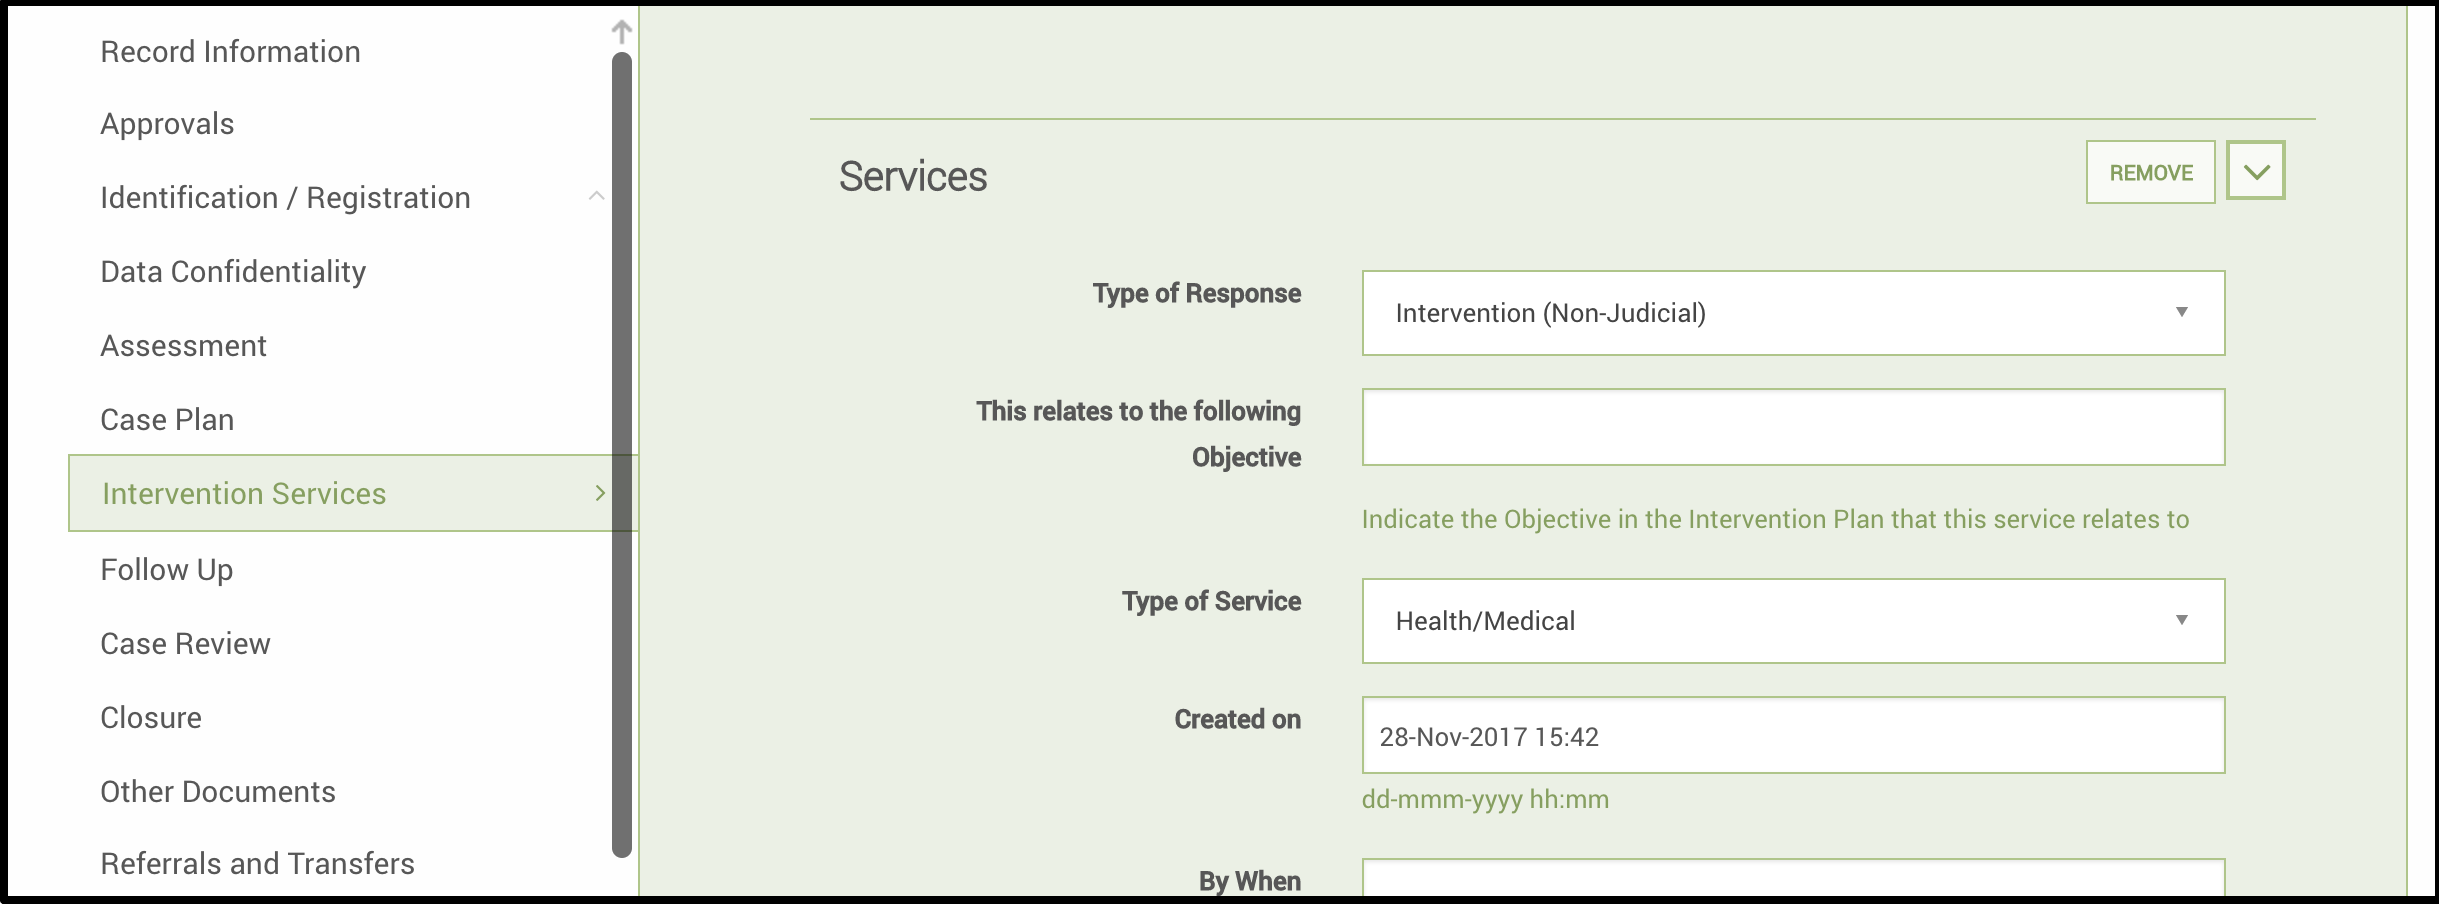
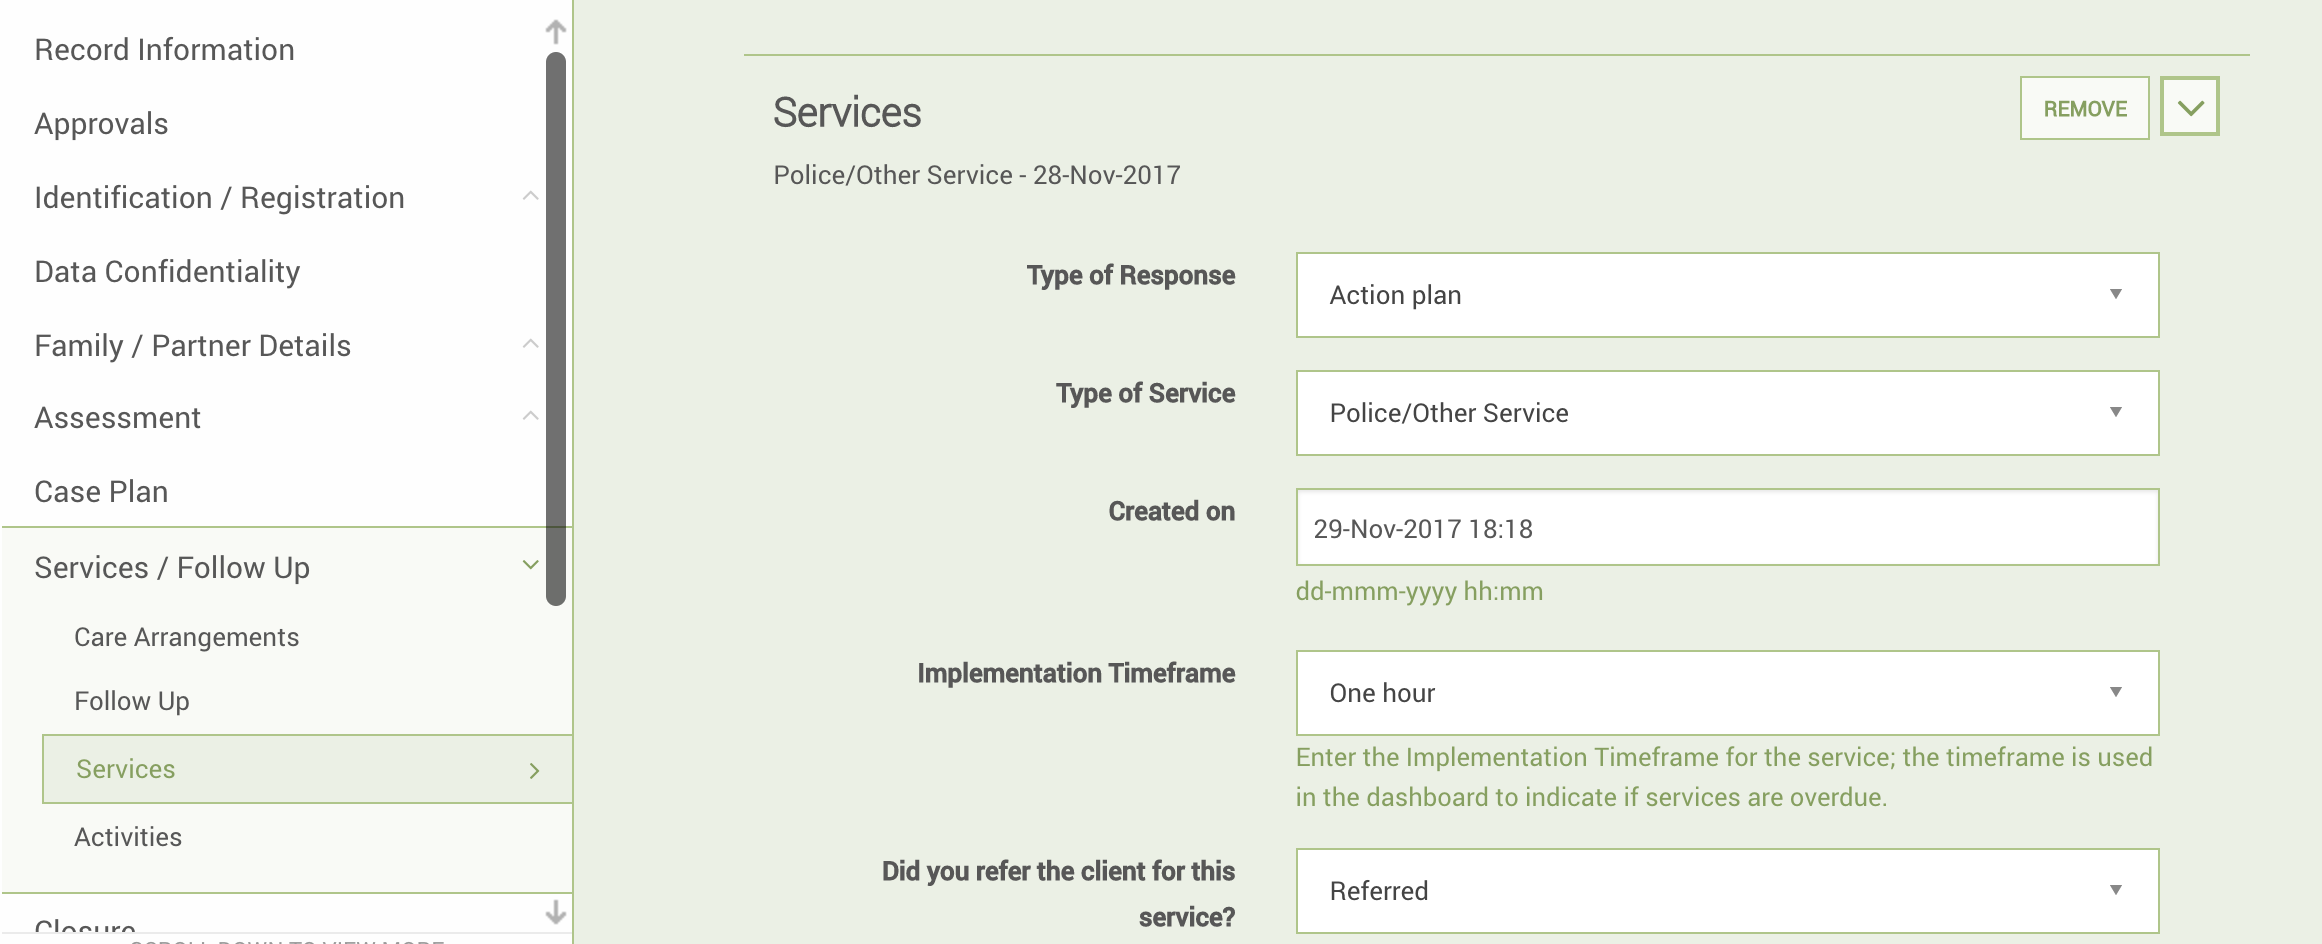
LB-165: Made services form section based on seeds rather than tsfv config.

diff --git a/UsersGuide.md b/UsersGuide.md
@@ -37,13 +37,11 @@ If your user has access to cases through either the CP or GBV module, you will s
 
 ### Cases Dashboard
 
-The first example below is the basic Cases Dashboard. If you have any access to cases, but you are not a manager or an administrator, you will see this dashboard. The dashboard is divided into two main sections: one for cases, one for responses. The first section (first picture below) begins with a few key metrics: total cases, total new cases, transfers awaiting acceptance, new incidents, services implemented, total referrals, new referrals, pending transfers, and rejected transfers. \(In these metrics, “new” means anything which has not been edited since its creation, or since it was assigned to the current user, while "updated" means anything that has been changed since the user last saved the case. This latter situation may arise, for instance, if another user adds an incident to the case.\) Below these key metrics lie two columns. The first shows the number of total and new cases, subdivided by assessment level. The second column shows all the number of pending, rejected, and new approvals, subdivided by the type of approval.
+The first example below is the basic Cases Dashboard. If you have any access to cases, but you are not a manager or an administrator, you will see this dashboard. The dashboard is divided into two main sections: one for cases, one for services. The first section (first picture below) begins with a few key metrics: total cases, total new cases, transfers awaiting acceptance, new incidents, services implemented, total referrals, new referrals, pending transfers, and rejected transfers. \(In these metrics, “new” means anything which has not been edited since its creation.\) Below these key metrics lie two columns. The first shows the number of total and new cases, subdivided by assessment level. The second column shows all the number of pending, rejected, and new approvals, subdivided by the type of approval.
 
 ![](/img/image90.png)
 
-For any of the numbers shown in this dashboard, clicking on the number will take you to a list of cases which meet the criteria represented by that number. So, for instance, if you click on the number "6" shown for "New & Updated" cases, you will be redirected to a list of all six cases which count as new and/or updated.
-
-The second portion of the cases dashboard outlines all responses for the user's cases, with a column for each response type. Within each column, responses are broken down by priority level, at which point numbers are given for total responses as well as those nearing or past their deadlines \(as determined by the timeframe specified for a given response\). Clicking any of these numbers will take the user to a list of the cases in question. This allows users to easily manage the most urgent tasks for their cases, in order of priority.
+The second portion of the cases dashboard outlines all services for the user's cases, with a column for each response type. Within each column, services are broken down by priority level, at which point numbers are given for total services as well as those nearing or past their deadlines \(as determined by the timeframe specified for a given service\). Clicking any of these numbers will take the user to a list of the cases in question. This allows users to easily manage the most urgent tasks for their cases, in order of priority.
 
 ![](/img/image91.png)
 
@@ -131,7 +129,7 @@ On the view and edit pages for a case, the user will see the case status bar, wh
 
 ![](img/image85.png)
 
-When the case is first opened, before any services are added, the status bar will highlight the "New" status. Once a service has been added, however, the case status will correspond with the most recently-added response type. So, for instance, after a case is opened, if a case worker refers the case to a service provider for a service with a response type of "Immediate Response", the case status will also be "Immediate Response." When the case is closed, with manager approval, the case status will become "Closed." Keeping track of the case status helps the case worker keep track of the case's needs. Please note that the case status bar may or may not appear, depending on a given implementation's configuration.
+When the case is first opened, before any services are added, the status bar will highlight the "New" status. Once a service has been added, however, the case status will correspond with the most recently-added response type. So, for instance, after a case is opened, if a case worker refers the case to a service provider for a service with a response type of "Action Plan", the case status will also be "Action Plan." When the case is closed, with manager approval, the case status will become "Closed." Keeping track of the case status helps the case worker keep track of the case's needs. Please note that the case status bar may or may not appear, depending on a given implementation's configuration.
 
 ## Action Buttons
 
@@ -335,7 +333,7 @@ In certain data sets and forms, we find that information pertaining to an event 
 
 ## Alerts
 
-Alerts appear in the case forms when an important change has been made to your case. One example of such a change is when an incident has been added to your case. In this situation, you will see a small alert badge next to the incident subform. This helps users keep track of updates to a given case's situation and immediately undertake any necessary responses.
+When an incident has been added to your case, you will see a small alert badge next to the incident subform. This helps users keep track of updates to a given case's situation and immediately undertake any necessary services.
 
 ![](/img/image95.png)
 
@@ -479,31 +477,18 @@ Based on the deployment, you may have the ability to relinquish a case that has 
 
 ![](img/image82.png)
 
-# Workflow Status
+# Services
 
-Primero provides a flexible way of keeping track of a case's place in the child protection workflow. As it stands, a case can have one of a few standard statuses: "New," "Service Implemented," "Closed," and then a status associated with each of the various types of services (also called "responses" or "interventions," depending on your implementation). The workflow status is represented in the Workflow Status Bar. In the image below, there are five statuses, since a service can be classified as either an "Immediate Intervention" or a "Comprehensive Intervention."
+A core part of the case management process is responding to the needs of a case. Primero manages these through the "Services" form and through the provision of services (sometimes also referred to as "responses").
 
-![](img/image82.png)
 
-In this situation, the case has a status of "Comprehensive Intervention." All cases start off as "New." Once a service is added, the case assumes a status associated with the most recent service's type. Clearly then, for this case, the most recent intervention was a "Comprehensive Intervention."
+## Services Form
 
-![](img/image82.png)
-
-Once all services have been implemented, the case's status will switch to "Service Implemented." Finally, if a case is closed (using the "Case Status" input), the status of the case will change to "Closed."
-
-Once again, this case status, as represented in the Workflow Status Bar, helps keep track of the case's place in the Child Protection workflow. That being said, this cannot replace the robust human processes needed to ensure that cases are properly assessed and cared for. Please closely follow your particular program's Child Protection SoP's to ensure that best practices are followed in the handling of all cases.
-
-# Responses
-
-A core part of the case management process is responding to the needs of a case. Primero manages these through the "Response Overview" form and through the provision of services.
-
-## Response Overview Form
-
-To add a response to a case, simply go into the Response Overview form on the case edit page, and click the "add" button. You will see a subform like the one in the picture below. Here, you can enter information on the response.
+To add a service to a case, simply go into the Services form on the case edit page, and click the "add" button. You will see a subform like the one in the picture below. Here, you can enter information on the service.
 
 ![](img/image96.png)
 
-When selecting a Response Type, remember that this will help determine the workflow status of your case. So, for instance, if you select "Immediate Response," your case status will also be "Immediate Response" so long as you do not add any other responses or close the case.
+When selecting a "Type of Response", remember that this will help determine the workflow status of your case. So, for instance, if you select "Action Plan," your case status will also be "Action Plan" so long as you do not add any other services or close the case.
 
 ![](img/image97.png)
 
@@ -511,19 +496,19 @@ Another important field to fill in is the type of service that will be rendered 
 
 ![](img/image98.png)
 
-Choosing a timeframe for the response will help generate reminders in you or your manager's dashboard when the response is coming due or overdue. This timeframe, depending on your configuration, will take one of two forms: the time period after which the response will be due (e.g. three hours, one day); or the actual due date for the response (e.g. November 30, 2017). Both these forms are displayed in the pictures below. For more information on these reminders, check out the Dashboards section.
+Choosing a timeframe for the service will help generate reminders in you or your manager's dashboard when the service is coming due or overdue. This timeframe, depending on your configuration, will take one of two forms: the time period after which the service will be due (e.g. three hours, one day); or the actual due date for the service (e.g. November 30, 2017). Both these forms are displayed in the pictures below. For more information on these reminders, check out the Dashboards section.
 
 ![](img/image101.png)
 
 ![](img/image106.png)
 
-Selecting a service provider in this form will allow you to refer your case to the service provider directly from the form. Make sure you fill in the "Service Provider Name" field, or no "REFER" button will appear for this particular response. In the situation below, we have selected a medical specialist to perform a medical service for our case.
+Selecting a service provider in this form will allow you to refer your case to the service provider directly from the form. Make sure you fill in the "Service Provider Name" field, or no "REFER" button will appear for this particular service. In the situation below, we have selected a medical specialist to perform a medical service for our case.
 
 ![](img/image99.png)
 
-## Referring from Response Overview Form
+## Referring from Services Form
 
-Once you have saved the case with this new response, and have been redirected back to the view page, go to the Response Overview form and the response you just added. At the top of the response's subform, you should see a "REFER" button. Click on this button, and you will see a modal like the one pictured below. Here, you can enter information on your referral just like you normally would. However, if you have already filled out a service provider and a service type for your response, these fields will be pre-entered for you. Remember to ensure that your case has provided consent, or that you choose the override consent option before referring.
+Once you have saved the case with this new service, and have been redirected back to the view page, go to the Services form and the service you just added. At the top of the service's subform, you should see a "REFER" button. Click on this button, and you will see a modal like the one pictured below. Here, you can enter information on your referral just like you normally would. However, if you have already filled out a service provider and a service type for your service, these fields will be pre-entered for you. Remember to ensure that your case has provided consent, or that you choose the override consent option before referring.
 
 ![](img/image100.png)
 

diff --git a/SUMMARY.md b/SUMMARY.md
@@ -79,11 +79,11 @@
 
     *  [*Relinquishing Referral*](UsersGuide.md#relinquishing-referral)
 
-*  [*Responses*](UsersGuide.md#responses)
+*  [*Services*](UsersGuide.md#services)
 
-    *  [*Response Overview Form*](UsersGuide.md#response-overview-form)
+    *  [*Services Form*](UsersGuide.md#services-form)
 
-    *  [*Referring from Response Overview Form*](UsersGuide.md#referring-from-response-overview-form)
+    *  [*Referring from Services Form*](UsersGuide.md#referring-from-services-form)
 
 *  [*Notification Emails*](UsersGuide.md#notification-emails)
 
